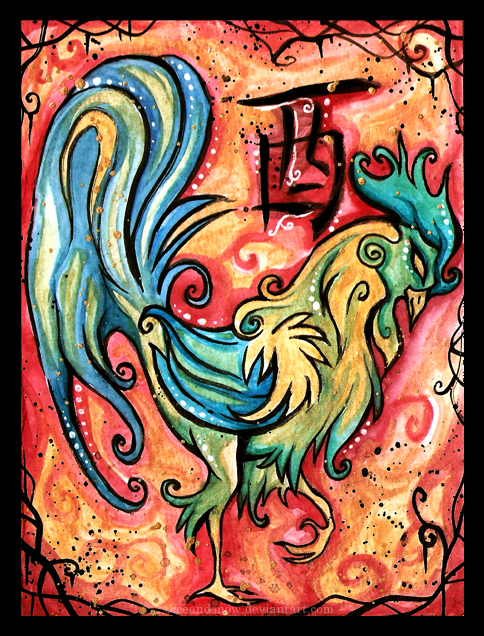
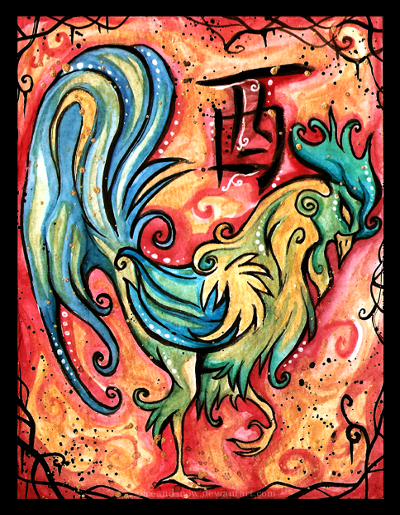
Edited the 12 sign pictures so they are all the exact same resolution. The slight different sizes were causing problems. Completed most of the 12 signs page.

diff --git a/12signs.html b/12signs.html
@@ -1,7 +1,7 @@
 <!DOCTYPE html>
 <html lang="en">
     <head>
-        <title>Home - Chinese Zodiac</title>
+        <title>12 Signs - Chinese Zodiac</title>
         <meta charset="utf-8" />
         <link rel="stylesheet" href="style/darkly/bootstrap.min.css" media="screen" />
 		<link rel="stylesheet" href="style/styles.css" />
@@ -26,43 +26,50 @@
 				</div>
 			</header>
 			
-			<section>
-				<div class="col-md-3">
+			<section class="text-center">
+				<div class="col-md-3 col-sm-6">
 					<img src="Images/rat.png">
 				</div>
-				<div class="col-md-3">
+				<div class="col-md-3 col-sm-6">
 					<img src="Images/ox.png">
 				</div>
-				<div class="col-md-3">
+				<div>
+				
+				<div class="col-md-3 col-sm-6">
 					<img src="Images/tiger.png">
 				</div>
-				<div class="col-md-3">
+				<div class="col-md-3 col-sm-6">
 					<img src="Images/rabbit.png">
 				</div>
-				<div class="col-md-3">
+			
+				<div class="col-md-3 col-sm-6">
 					<img src="Images/dragon.png">
 				</div>
-				<div class="col-md-3">
+				<div class="col-md-3 col-sm-6">
 					<img src="Images/snake.png">
 				</div>
-				<div class="col-md-3">
+				
+				<div class="col-md-3 col-sm-6">
 					<img src="Images/horse.png">
 				</div>
-				<div class="col-md-3">
+				<div class="col-md-3 col-sm-6">
 					<img src="Images/ram.png">
 				</div>
-				<div class="col-md-3">
+				
+				<div class="col-md-3 col-sm-6">
 					<img src="Images/monkey.png">
 				</div>
-				<div class="col-md-3">
+				<div class="col-md-3 col-sm-6">
 					<img src="Images/rooster.png">
 				</div>
-				<div class="col-md-3">
+				
+				<div class="col-md-3 col-sm-6">
 					<img src="Images/dog.png">
 				</div>
-				<div class="col-md-3">
+				<div class="col-md-3 col-sm-6">
 					<img src="Images/pig.png">
 				</div>
+				
 			</section>
 		</div>
     </body>

diff --git a/style/styles.css b/style/styles.css
@@ -13,3 +13,7 @@ header {
 	width: 90%;
 	padding: 5%;
 }
+.col-sm-6 img {
+	width: 90%;
+	padding: 5%;
+}
